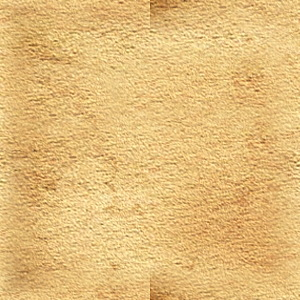
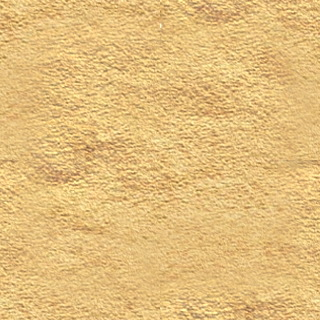
Remove the parchment seams and keep sign-in.
The page texture tiles without the vertical lines. Sign-in keeps the session token, and the auth cookies are written through so a successful login is not dropped.

diff --git a/src/routes/api/auth/$.ts b/src/routes/api/auth/$.ts
@@ -1,12 +1,68 @@
 import { createFileRoute } from "@tanstack/react-router";
+import { setCookie } from "@tanstack/react-start/server";
 import { prepareAuthRequest } from "@/lib/auth/request-origin";
 import { auth } from "@/lib/auth/server";
+
+function applyAuthCookies(response: Response) {
+  const lines =
+    typeof response.headers.getSetCookie === "function" ? response.headers.getSetCookie() : [];
+  for (const line of lines) {
+    const semi = line.indexOf(";");
+    const pair = (semi === -1 ? line : line.slice(0, semi)).trim();
+    const eq = pair.indexOf("=");
+    if (eq <= 0) continue;
+    const name = pair.slice(0, eq).trim();
+    let value = pair.slice(eq + 1).trim();
+    if (value.includes("%")) {
+      try {
+        value = decodeURIComponent(value);
+      } catch {
+        /* keep the raw value */
+      }
+    }
+    const opts: {
+      path: string;
+      secure: boolean;
+      sameSite: "lax" | "strict" | "none";
+      httpOnly?: boolean;
+      maxAge?: number;
+    } = { path: "/", secure: true, sameSite: "lax" };
+    for (const raw of (semi === -1 ? "" : line.slice(semi + 1)).split(";")) {
+      const attr = raw.trim();
+      if (!attr) continue;
+      const aeq = attr.indexOf("=");
+      const key = (aeq === -1 ? attr : attr.slice(0, aeq)).trim().toLowerCase();
+      const val = aeq === -1 ? "" : attr.slice(aeq + 1).trim();
+      if (key === "max-age" && val) opts.maxAge = Number(val);
+      else if (key === "httponly") opts.httpOnly = true;
+      else if (key === "samesite") {
+        const site = val.toLowerCase();
+        if (site === "lax" || site === "strict" || site === "none") opts.sameSite = site;
+      }
+    }
+    if (name.startsWith("__Host-")) {
+      opts.path = "/";
+      opts.secure = true;
+    }
+    try {
+      setCookie(name, value, opts);
+    } catch (err) {
+      console.error("auth cookie", name, err);
+    }
+  }
+}
+
+async function handle(request: Request) {
+  const response = await auth.handler(prepareAuthRequest(request));
+  applyAuthCookies(response);
+  return response;
+}
 
 export const Route = createFileRoute("/api/auth/$")({
   server: {
     handlers: {
-      GET: ({ request }) => auth.handler(prepareAuthRequest(request)),
-      POST: ({ request }) => auth.handler(prepareAuthRequest(request)),
+      GET: ({ request }) => handle(request),
+      POST: ({ request }) => handle(request),
     },
   },
 });

diff --git a/src/routes/login.tsx b/src/routes/login.tsx
@@ -3,7 +3,7 @@ import { useEffect, useRef, useState } from "react";
 import { HoldMark } from "@/components/mark";
 import { Button } from "@/components/ui/button";
 import { Input } from "@/components/ui/input";
-import { GROK_PROVIDERS, authClient, authEnabled, signIn } from "@/lib/auth/client";
+import { GROK_PROVIDERS, authEnabled, signIn } from "@/lib/auth/client";
 import { useCurrentUserState } from "@/lib/auth/use-current-user";
 import type { Desk } from "@/lib/op20/types";
 
@@ -43,16 +43,20 @@ function Login() {
     setError("");
     setPending(true);
     try {
-      const result =
-        mode === "up"
-          ? await authClient.signUp.email({
-              email: email.trim(),
-              password,
-              name: email.trim().split("@")[0] || "Player",
-            })
-          : await authClient.signIn.email({ email: email.trim(), password });
-      if (result.error) throw new Error(result.error.message || "Sign-in failed");
-      const token = (result.data as { token?: string } | null)?.token;
+      const path = mode === "up" ? "/api/auth/sign-up/email" : "/api/auth/sign-in/email";
+      const res = await fetch(path, {
+        method: "POST",
+        credentials: "include",
+        headers: { "content-type": "application/json" },
+        body: JSON.stringify({
+          email: email.trim(),
+          password,
+          name: email.trim().split("@")[0] || "Player",
+        }),
+      });
+      const data = (await res.json().catch(() => null)) as { message?: string; token?: string } | null;
+      if (!res.ok) throw new Error(data?.message || "Sign-in failed");
+      const token = res.headers.get("set-auth-token") || data?.token;
       if (token) window.sessionStorage.setItem(BEARER_KEY, token);
       window.location.assign(`/?desk=${back}`);
     } catch (err) {

diff --git a/src/lib/auth/client.ts b/src/lib/auth/client.ts
@@ -79,6 +79,17 @@ function inLivePreview(): boolean {
   );
 }
 
+/** A framed preview cannot survive a full-page broker redirect. Use the popup. */
+function wantsPopupSignIn(): boolean {
+  if (inLivePreview()) return true;
+  if (typeof window === "undefined") return false;
+  try {
+    return window.self !== window.top;
+  } catch {
+    return true;
+  }
+}
+
 /** Message the popup posts back to the opener once sign-in completes. */
 type PopupMessage = { source: "grok-auth-popup"; token: string | null; error?: string };
 
@@ -106,7 +117,7 @@ export async function signIn(
   // Open the popup SYNCHRONOUSLY on the user gesture — before any await
   // (including signOut). Awaiting first drops user-gesture privilege in some
   // browsers when the opener is a cross-origin live-preview iframe.
-  const popup = inLivePreview() ? openSignInPopup(providerId) : null;
+  const popup = wantsPopupSignIn() ? openSignInPopup(providerId) : null;
 
   // A signed-out visitor has no session to clear. Waiting on sign-out first
   // leaves the Google button looking dead until that request finishes.
@@ -124,7 +135,7 @@ export async function signIn(
     });
   }
 
-  if (inLivePreview()) {
+  if (wantsPopupSignIn()) {
     if (!popup) throw new Error("Pop-up blocked — allow pop-ups for sign-in");
     const token = await waitForPopupToken(popup);
     if (!token) throw new Error("Sign-in was cancelled or failed");

diff --git a/src/styles.css b/src/styles.css
@@ -55,7 +55,7 @@
     background-color: #e0b56a;
     background-image: url("/brand/parchment-wash.jpg");
     background-repeat: repeat;
-    background-size: 300px 300px;
+    background-size: 320px 320px;
     color: var(--color-ink);
     font-family: var(--font-sans);
     min-height: 100dvh;
